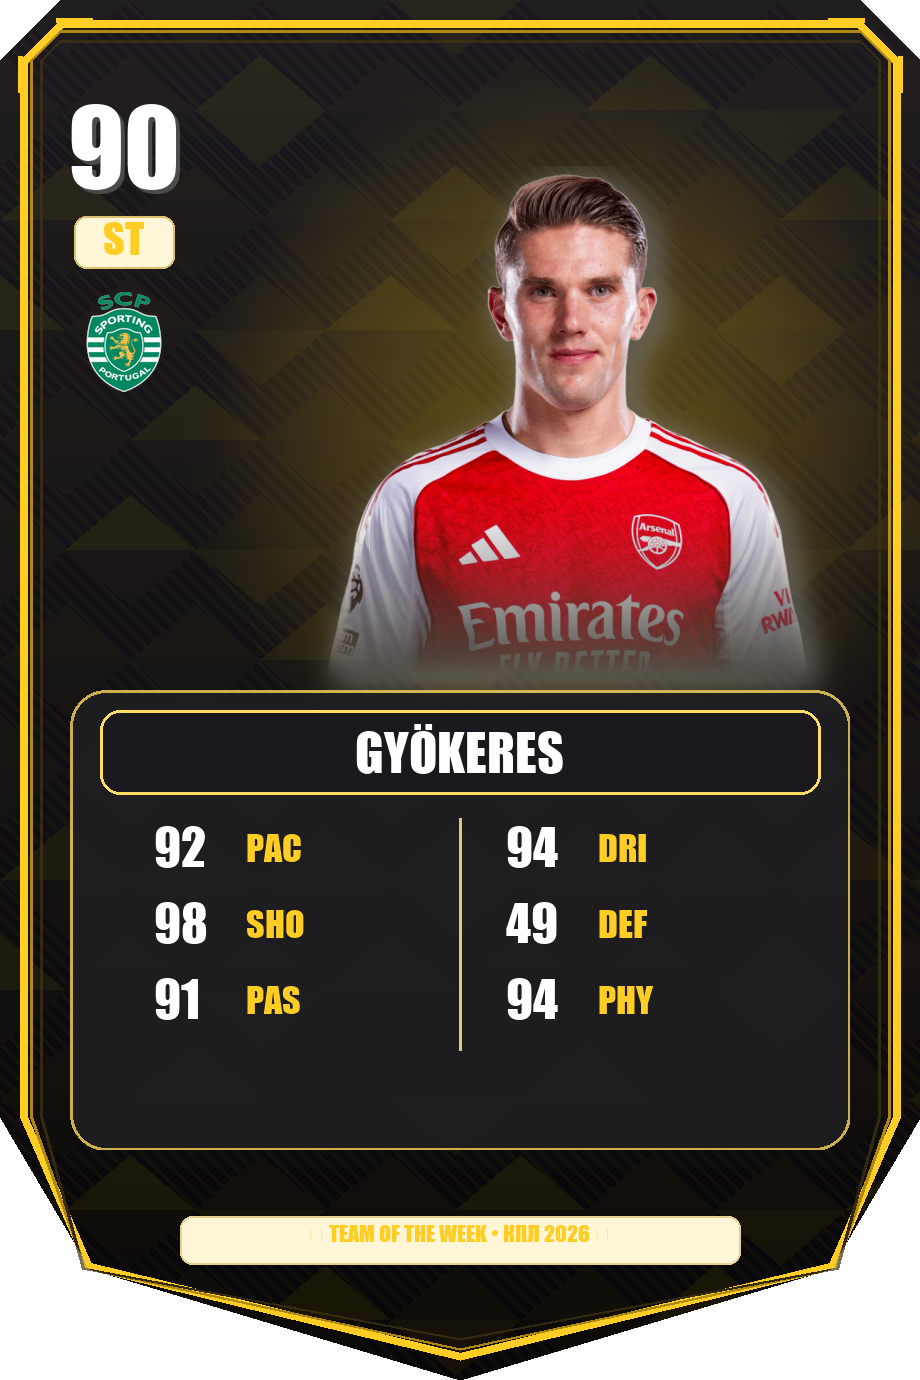
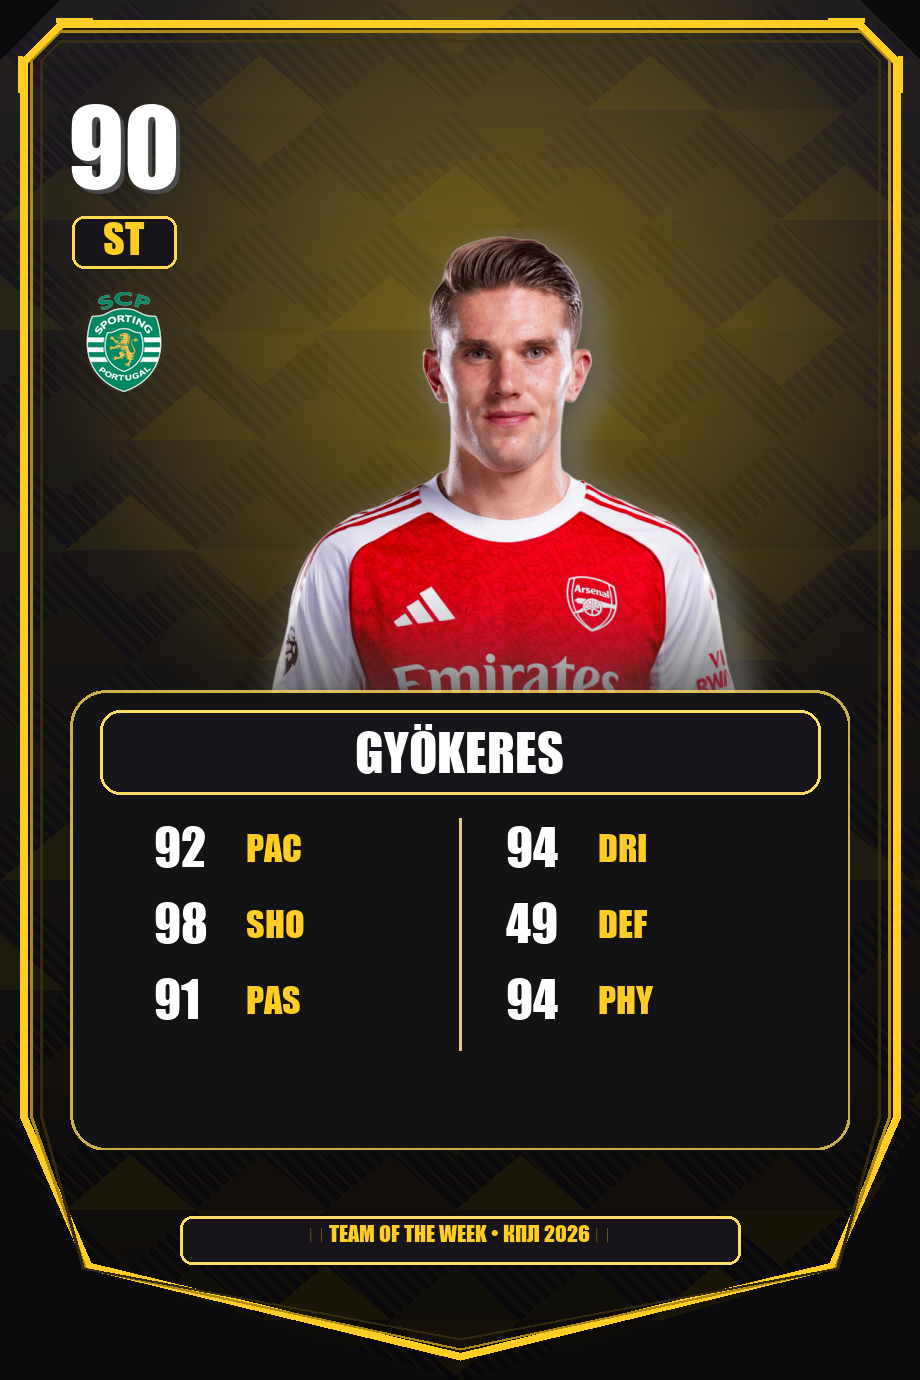
fix: remove white outer corner artifacts and enlarge centered player cutout in EA FC card

diff --git a/fc_card_generator.py b/fc_card_generator.py
@@ -39,61 +39,64 @@ HEIGHT = HEIGHT_1X * SCALE
 
 THEMES = {
     "gold_rare": {
+        "canvas_bg": (14, 11, 6, 255),    # Solid dark gold background (no white Telegram corners)
         "bg_top": (46, 36, 16),           # Deep bronze-gold
         "bg_mid": (24, 18, 8),
         "bg_bottom": (12, 9, 4),
-        "spotlight": (255, 215, 0, 75),   # Golden glow burst
+        "spotlight": (255, 215, 0, 85),   # Golden glow burst
         "border_outer": (245, 206, 112),  # Polished bright gold
         "border_mid": (195, 152, 60),     # Brushed gold
         "border_inner": (95, 72, 28),     # Dark antique gold
         "accent": (255, 215, 0),          # Vivid gold
-        "plate_bg": (18, 14, 7, 220),     # Dark frosted glass plate
+        "plate_bg": (18, 14, 7, 245),     # Dark frosted glass plate
         "plate_border": (195, 152, 60, 180),
         "text_primary": (255, 252, 240),
         "text_secondary": (245, 206, 112),
         "stat_val": (255, 255, 255),
         "stat_lbl": (230, 190, 100),
-        "ribbon_bg": (32, 24, 10, 240),
+        "ribbon_bg": (32, 24, 10, 245),
         "badge_text": "GOLD RARE",
-        "badge_bg": (245, 206, 112, 40),
+        "badge_bg": (22, 18, 10, 245),
     },
     "totw": {
+        "canvas_bg": (10, 9, 12, 255),    # Solid dark obsidian background (no white Telegram corners)
         "bg_top": (28, 26, 32),           # Obsidian / Charcoal
         "bg_mid": (14, 13, 16),
         "bg_bottom": (7, 6, 8),
-        "spotlight": (255, 200, 30, 80),  # Electric gold spotlight
+        "spotlight": (255, 205, 35, 90),  # Electric gold spotlight
         "border_outer": (255, 205, 35),   # Neon electric gold
         "border_mid": (200, 155, 20),     # Rich gold
         "border_inner": (65, 52, 18),     # Deep shadow gold
         "accent": (255, 215, 0),
-        "plate_bg": (12, 11, 14, 235),    # Deep carbon plate
+        "plate_bg": (14, 13, 16, 250),    # Deep carbon plate
         "plate_border": (255, 205, 35, 190),
         "text_primary": (255, 255, 255),
         "text_secondary": (255, 205, 35),
         "stat_val": (255, 255, 255),
         "stat_lbl": (255, 205, 35),
-        "ribbon_bg": (18, 16, 20, 245),
+        "ribbon_bg": (18, 16, 20, 250),
         "badge_text": "TEAM OF THE WEEK",
-        "badge_bg": (255, 205, 35, 45),
+        "badge_bg": (18, 16, 20, 250),
     },
     "icon": {
+        "canvas_bg": (18, 16, 14, 255),   # Solid dark luxury backdrop
         "bg_top": (248, 245, 235),        # Pearl marble white
         "bg_mid": (225, 218, 205),
         "bg_bottom": (195, 188, 172),
-        "spotlight": (255, 255, 255, 110),# Bright celestial aura
+        "spotlight": (255, 255, 255, 120),# Bright celestial aura
         "border_outer": (225, 175, 45),   # Royal goldenrod
         "border_mid": (180, 140, 35),
         "border_inner": (130, 100, 30),
         "accent": (180, 135, 25),
-        "plate_bg": (235, 230, 218, 235), # Warm pearl plate
+        "plate_bg": (235, 230, 218, 245), # Warm pearl plate
         "plate_border": (180, 140, 35, 180),
         "text_primary": (25, 20, 15),
         "text_secondary": (140, 100, 25),
         "stat_val": (20, 16, 12),
         "stat_lbl": (130, 95, 25),
-        "ribbon_bg": (245, 240, 230, 245),
+        "ribbon_bg": (245, 240, 230, 250),
         "badge_text": "ICON LEGEND",
-        "badge_bg": (180, 140, 35, 40),
+        "badge_bg": (230, 222, 208, 245),
     }
 }
 
@@ -326,8 +329,8 @@ def generate_ea_fc_card(player_data: dict, theme_name: str = "gold_rare") -> io.
     def_stat = custom_stats.get("DEF", calc_stats["def"])
     phy = custom_stats.get("PHY", calc_stats["phy"])
 
-    # 1. Base Canvas (Transparent RGBA)
-    card = Image.new("RGBA", (WIDTH, HEIGHT), (0, 0, 0, 0))
+    # 1. Base Canvas with solid dark theme backdrop (prevents Telegram JPEG white corners completely!)
+    card = Image.new("RGBA", (WIDTH, HEIGHT), theme["canvas_bg"])
 
     # 2. Gradient Background Canvas
     bg_gradient = Image.new("RGBA", (WIDTH, HEIGHT))
@@ -343,9 +346,9 @@ def generate_ea_fc_card(player_data: dict, theme_name: str = "gold_rare") -> io.
         bg_draw.line([(0, y), (WIDTH, y)], fill=(r, g, b, 255))
 
     # 3. Add Dynamic Radial Burst Glow behind player (depth & illumination)
-    spotlight_x = int(WIDTH * 0.62)
-    spotlight_y = int(HEIGHT * 0.32)
-    spotlight = draw_radial_spotlight((WIDTH, HEIGHT), (spotlight_x, spotlight_y), int(190 * SCALE), theme["spotlight"])
+    spotlight_x = int(WIDTH * 0.54)
+    spotlight_y = int(HEIGHT * 0.25)
+    spotlight = draw_radial_spotlight((WIDTH, HEIGHT), (spotlight_x, spotlight_y), int(230 * SCALE), theme["spotlight"])
     bg_gradient = Image.alpha_composite(bg_gradient, spotlight)
 
     # 4. Add Carbon Weave & Crystal Facets
@@ -357,10 +360,11 @@ def generate_ea_fc_card(player_data: dict, theme_name: str = "gold_rare") -> io.
     card.paste(bg_gradient, (0, 0), shield_mask)
 
     # 6. Player Photo Rendering with Dynamic Drop Shadow & Smooth Base Fade
-    photo_box_w = int(285 * SCALE)
-    photo_box_h = int(295 * SCALE)
-    photo_x = int(140 * SCALE)
-    photo_y = int(42 * SCALE)
+    # Scaled up for majestic presence and centered across the card
+    photo_box_w = int(350 * SCALE)
+    photo_box_h = int(350 * SCALE)
+    photo_x = int(75 * SCALE)
+    photo_y = int(18 * SCALE)
 
     player_img = None
     try:
@@ -377,11 +381,11 @@ def generate_ea_fc_card(player_data: dict, theme_name: str = "gold_rare") -> io.
             pw, ph = player_img.size
 
             # Soft drop shadow behind player
-            shadow = Image.new("RGBA", (pw + int(20 * SCALE), ph + int(20 * SCALE)), (0, 0, 0, 0))
+            shadow = Image.new("RGBA", (pw + int(24 * SCALE), ph + int(24 * SCALE)), (0, 0, 0, 0))
             shadow_mask = player_img.split()[3] if "A" in player_img.getbands() else Image.new("L", (pw, ph), 255)
-            shadow_fill = Image.new("RGBA", (pw, ph), (0, 0, 0, 160))
-            shadow.paste(shadow_fill, (int(8 * SCALE), int(8 * SCALE)), shadow_mask)
-            shadow = shadow.filter(ImageFilter.GaussianBlur(int(7 * SCALE)))
+            shadow_fill = Image.new("RGBA", (pw, ph), (0, 0, 0, 180))
+            shadow.paste(shadow_fill, (int(10 * SCALE), int(10 * SCALE)), shadow_mask)
+            shadow = shadow.filter(ImageFilter.GaussianBlur(int(8 * SCALE)))
 
             px = photo_x + (photo_box_w - pw) // 2
             py = photo_y + (photo_box_h - ph)
@@ -390,7 +394,7 @@ def generate_ea_fc_card(player_data: dict, theme_name: str = "gold_rare") -> io.
             # Smooth vertical gradient alpha fade at the torso baseline
             fade_mask = Image.new("L", (pw, ph), 255)
             f_mask_draw = ImageDraw.Draw(fade_mask)
-            fade_start_y = int(ph * 0.62)
+            fade_start_y = int(ph * 0.68)
             for fy in range(fade_start_y, ph):
                 fade_ratio = (fy - fade_start_y) / max(1, (ph - fade_start_y))
                 alpha_val = int(255 * (1.0 - (fade_ratio ** 1.6)))
@@ -407,13 +411,13 @@ def generate_ea_fc_card(player_data: dict, theme_name: str = "gold_rare") -> io.
         sil_layer = Image.new("RGBA", (photo_box_w, photo_box_h), (0, 0, 0, 0))
         sil_draw = ImageDraw.Draw(sil_layer)
         sc_x = photo_box_w // 2
-        head_r = int(34 * SCALE)
+        head_r = int(42 * SCALE)
         sil_draw.ellipse([(sc_x - head_r, int(22 * SCALE)), (sc_x + head_r, int(22 * SCALE) + 2 * head_r)], fill=theme["border_outer"] + (65,))
         torso_poly = [
-            (sc_x - int(80 * SCALE), photo_box_h),
-            (sc_x - int(60 * SCALE), int(100 * SCALE)),
-            (sc_x + int(60 * SCALE), int(100 * SCALE)),
-            (sc_x + int(80 * SCALE), photo_box_h),
+            (sc_x - int(100 * SCALE), photo_box_h),
+            (sc_x - int(75 * SCALE), int(115 * SCALE)),
+            (sc_x + int(75 * SCALE), int(115 * SCALE)),
+            (sc_x + int(100 * SCALE), photo_box_h),
         ]
         sil_draw.polygon(torso_poly, fill=theme["border_outer"] + (55,))
         card.paste(sil_layer, (photo_x, photo_y), sil_layer)
@@ -456,10 +460,10 @@ def generate_ea_fc_card(player_data: dict, theme_name: str = "gold_rare") -> io.
 
     # Position Tag (with sleek frosted pill backing)
     pos_y = ovr_y + int(56 * SCALE)
-    pos_w = int(50 * SCALE)
+    pos_w = int(52 * SCALE)
     pos_h = int(26 * SCALE)
     pos_rect = [(col_x - pos_w // 2, pos_y), (col_x + pos_w // 2, pos_y + pos_h)]
-    draw.rounded_rectangle(pos_rect, radius=int(6 * SCALE), fill=theme["badge_bg"], outline=theme["border_mid"] + (160,), width=int(1 * SCALE))
+    draw.rounded_rectangle(pos_rect, radius=int(6 * SCALE), fill=theme["badge_bg"], outline=theme["border_outer"] + (200,), width=int(1.5 * SCALE))
     draw.text((col_x, pos_y + int(3 * SCALE)), position, font=font_pos, fill=theme["text_secondary"], anchor="mt")
 
     # Club Crest
@@ -558,8 +562,8 @@ def generate_ea_fc_card(player_data: dict, theme_name: str = "gold_rare") -> io.
         [(footer_x, footer_y), (footer_x + footer_w, footer_y + footer_h)],
         radius=int(6 * SCALE),
         fill=theme["badge_bg"],
-        outline=theme["border_mid"] + (120,),
-        width=int(1 * SCALE)
+        outline=theme["border_outer"] + (180,),
+        width=int(1.5 * SCALE)
     )
 
     font_footer = load_card_font(11, bold=True)
